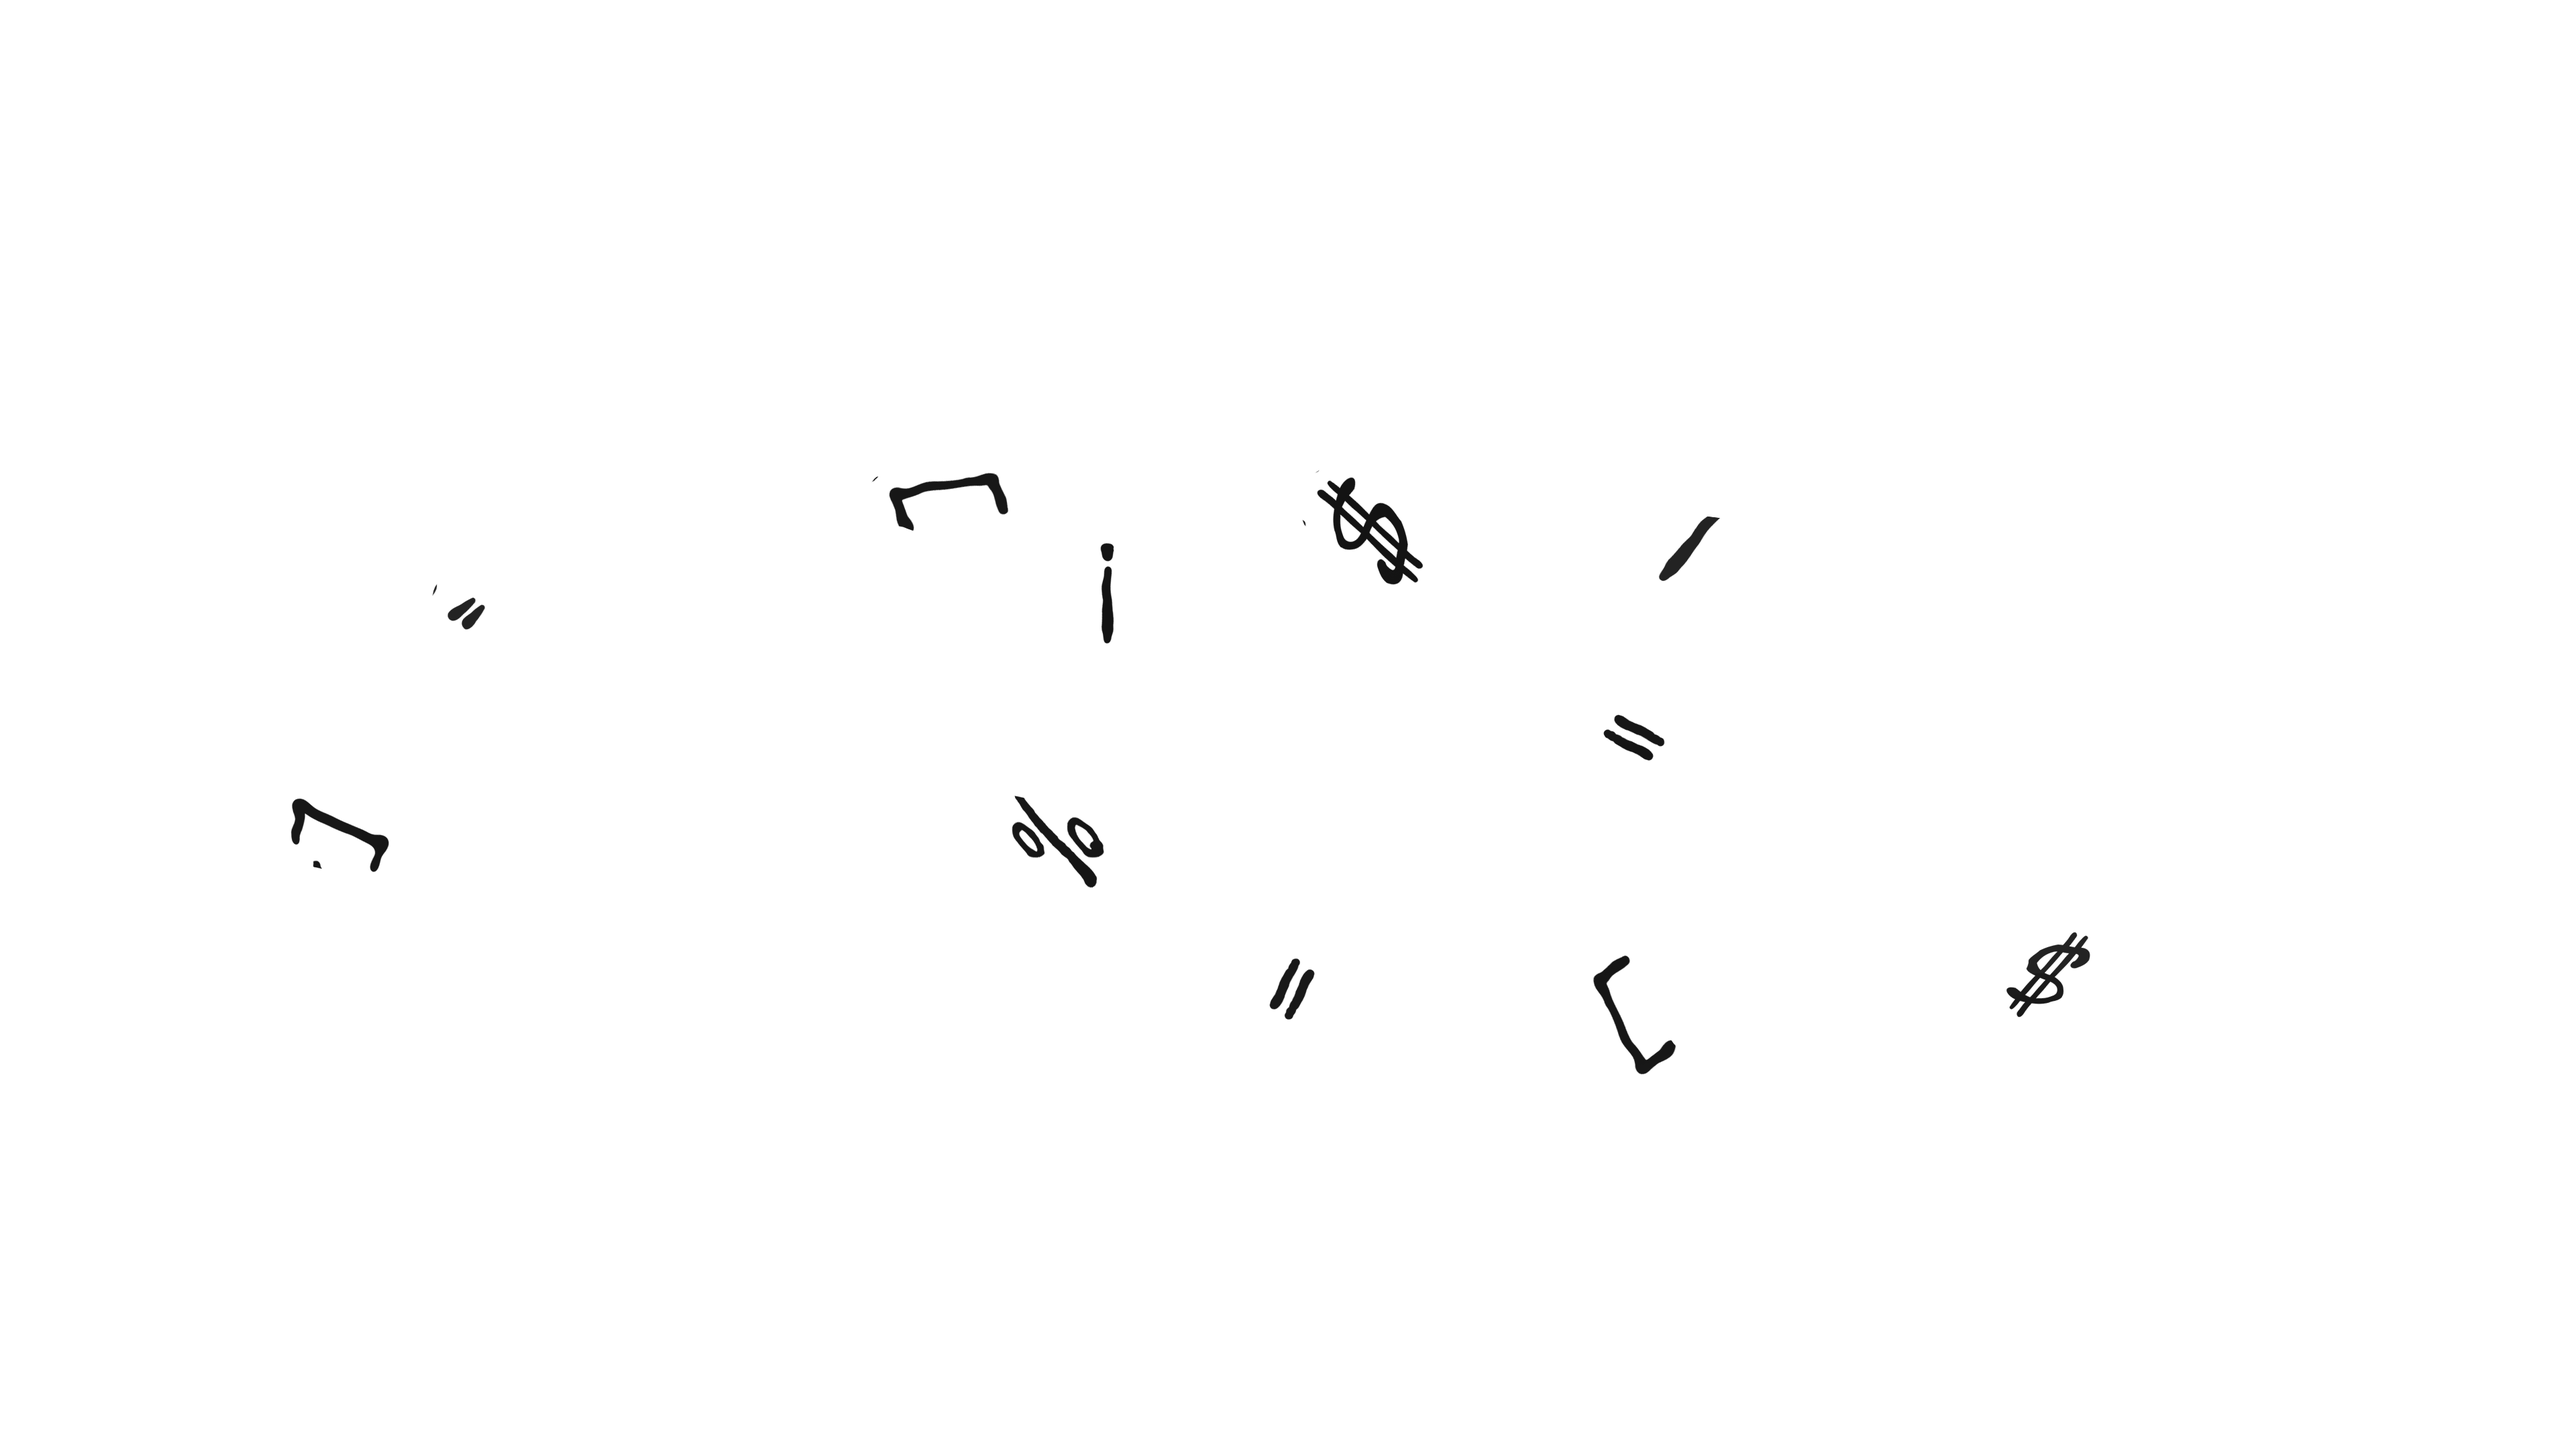
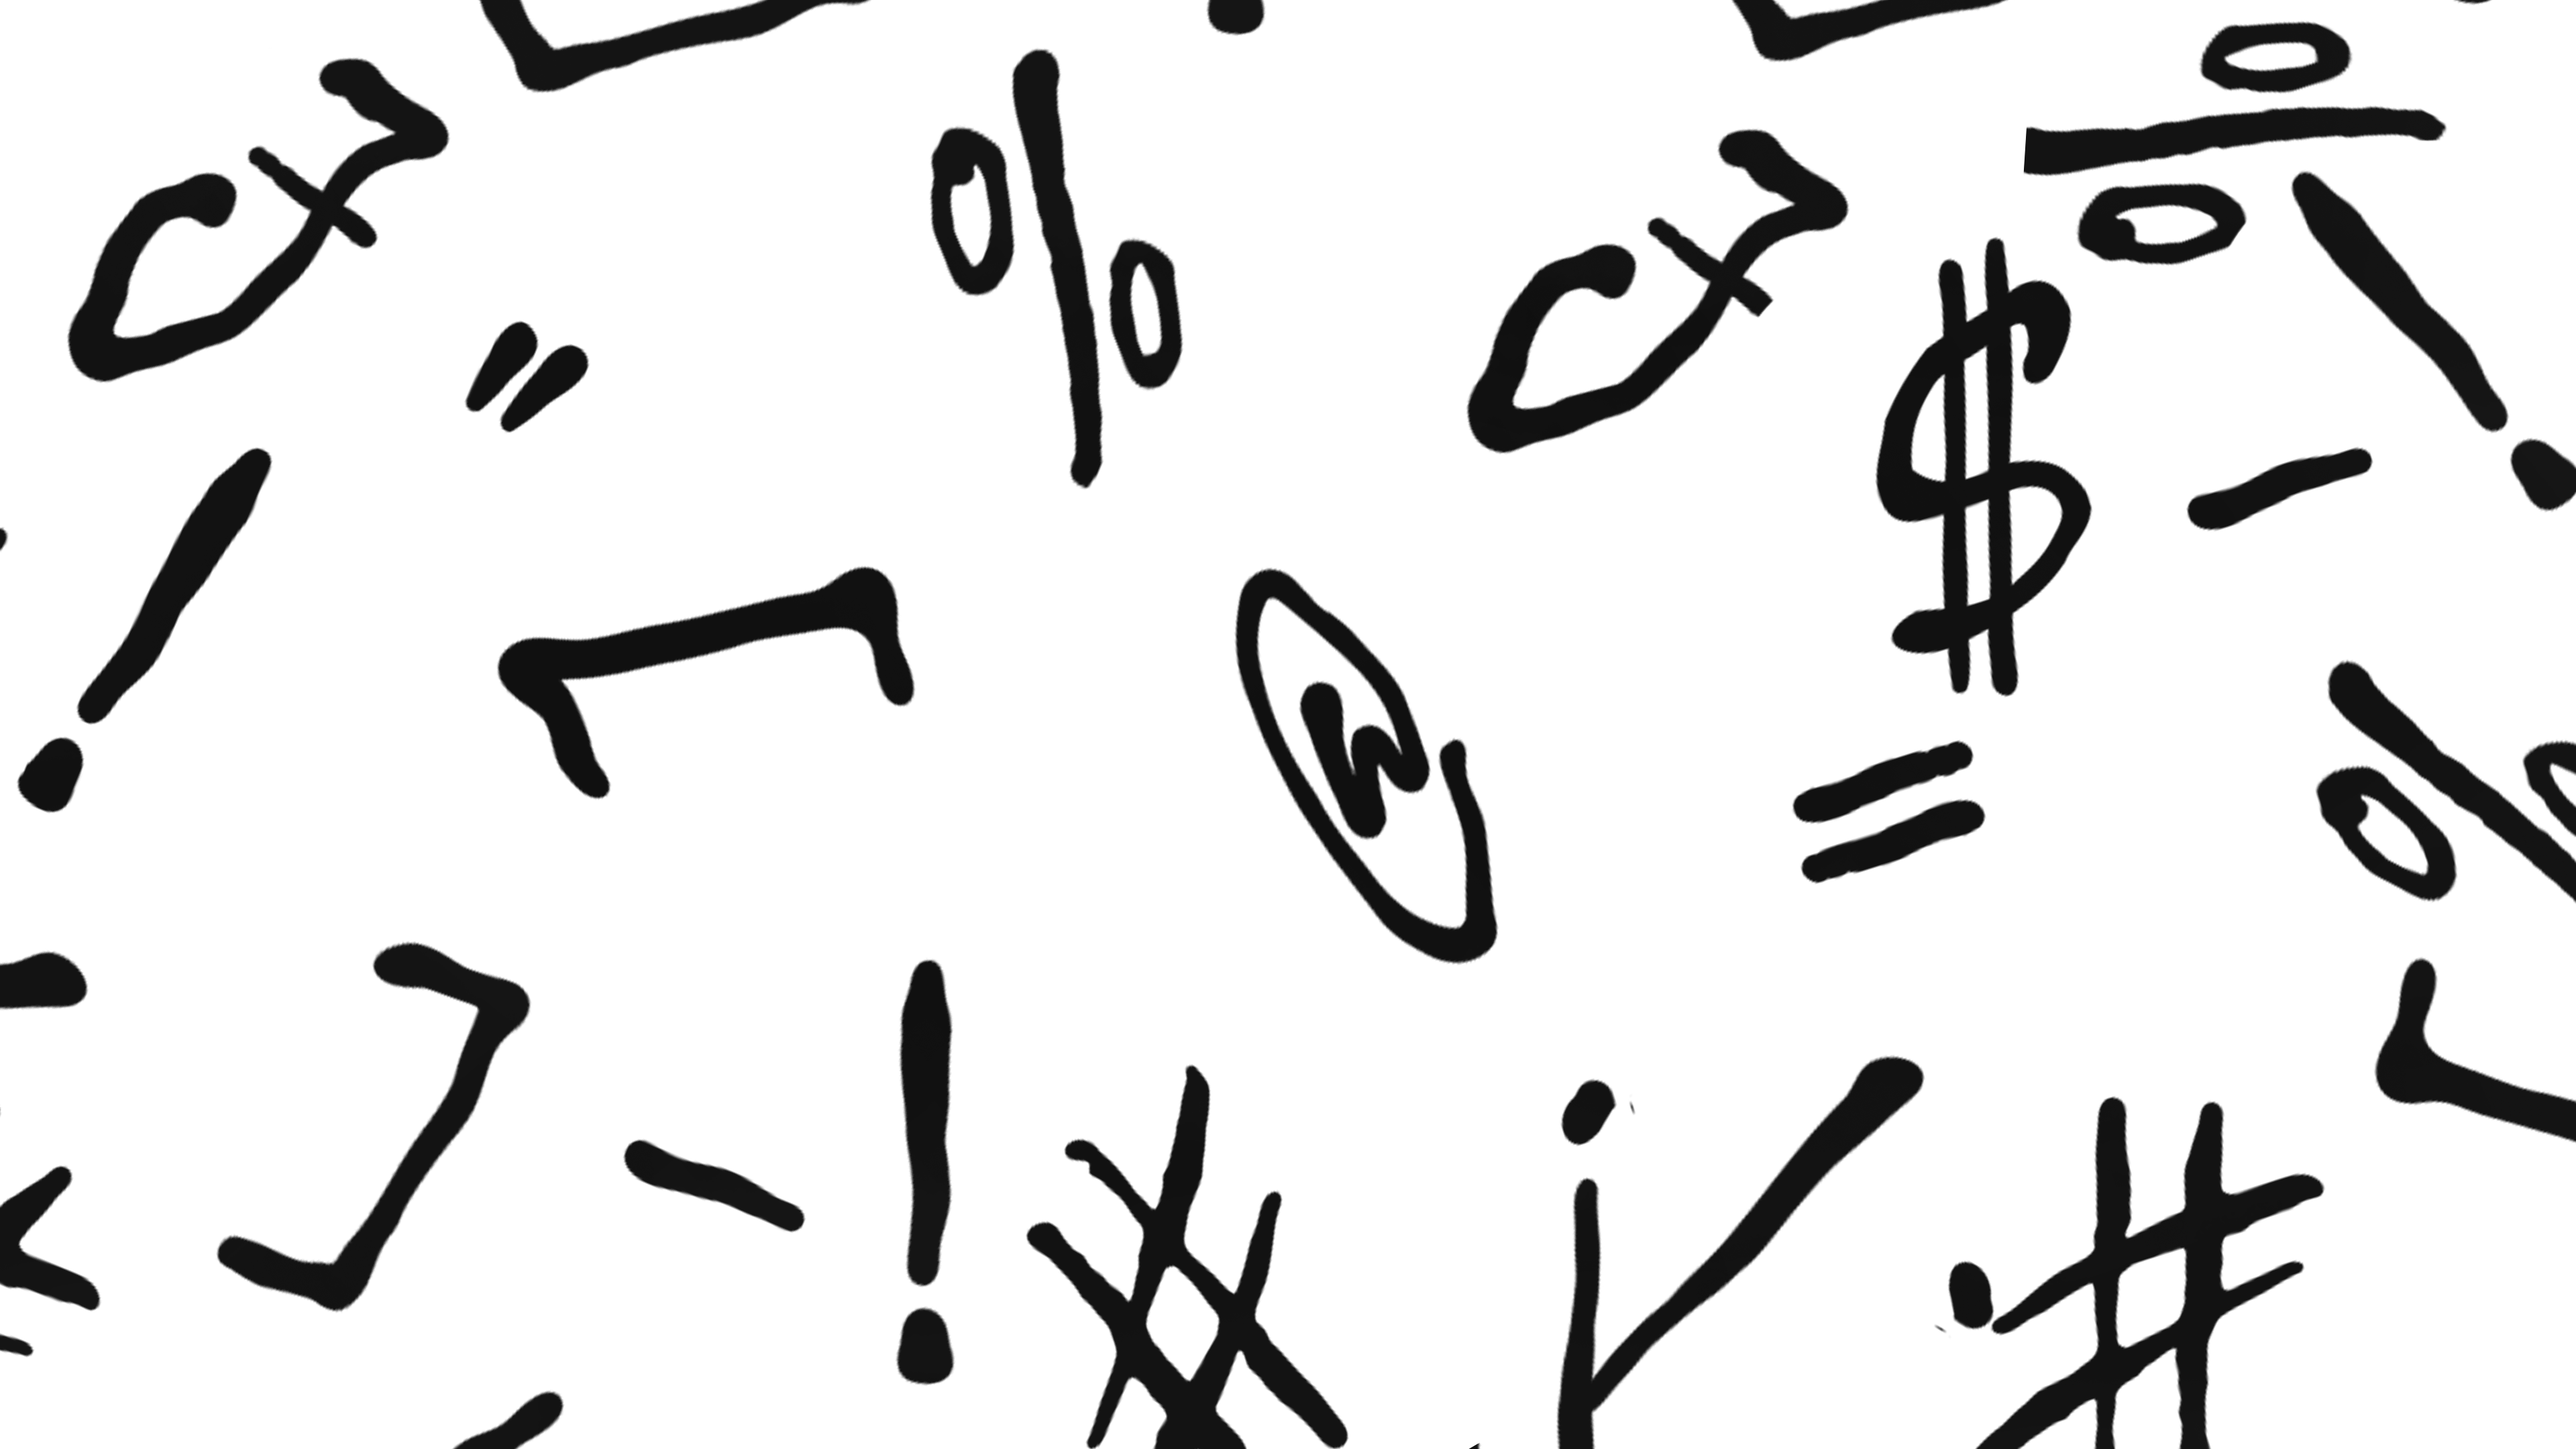
Font has been changed and parallax has been fixed

diff --git a/assets/critical.css b/assets/critical.css
@@ -1,3 +1,12 @@
+@font-face {
+  font-family: 'Pally Bold';
+  src: url('./Pally_Bold.woff2') format('woff2'),
+       url('./Pally_Bold.woff') format('woff');
+  font-weight: normal;
+  font-style: normal;
+  font-display: swap;
+}
+
 /** Critical CSS for the theme. This file is included on every page. */
 
 /* Reset styles inspired by https://www.joshwcomeau.com/css/custom-css-reset/ */
